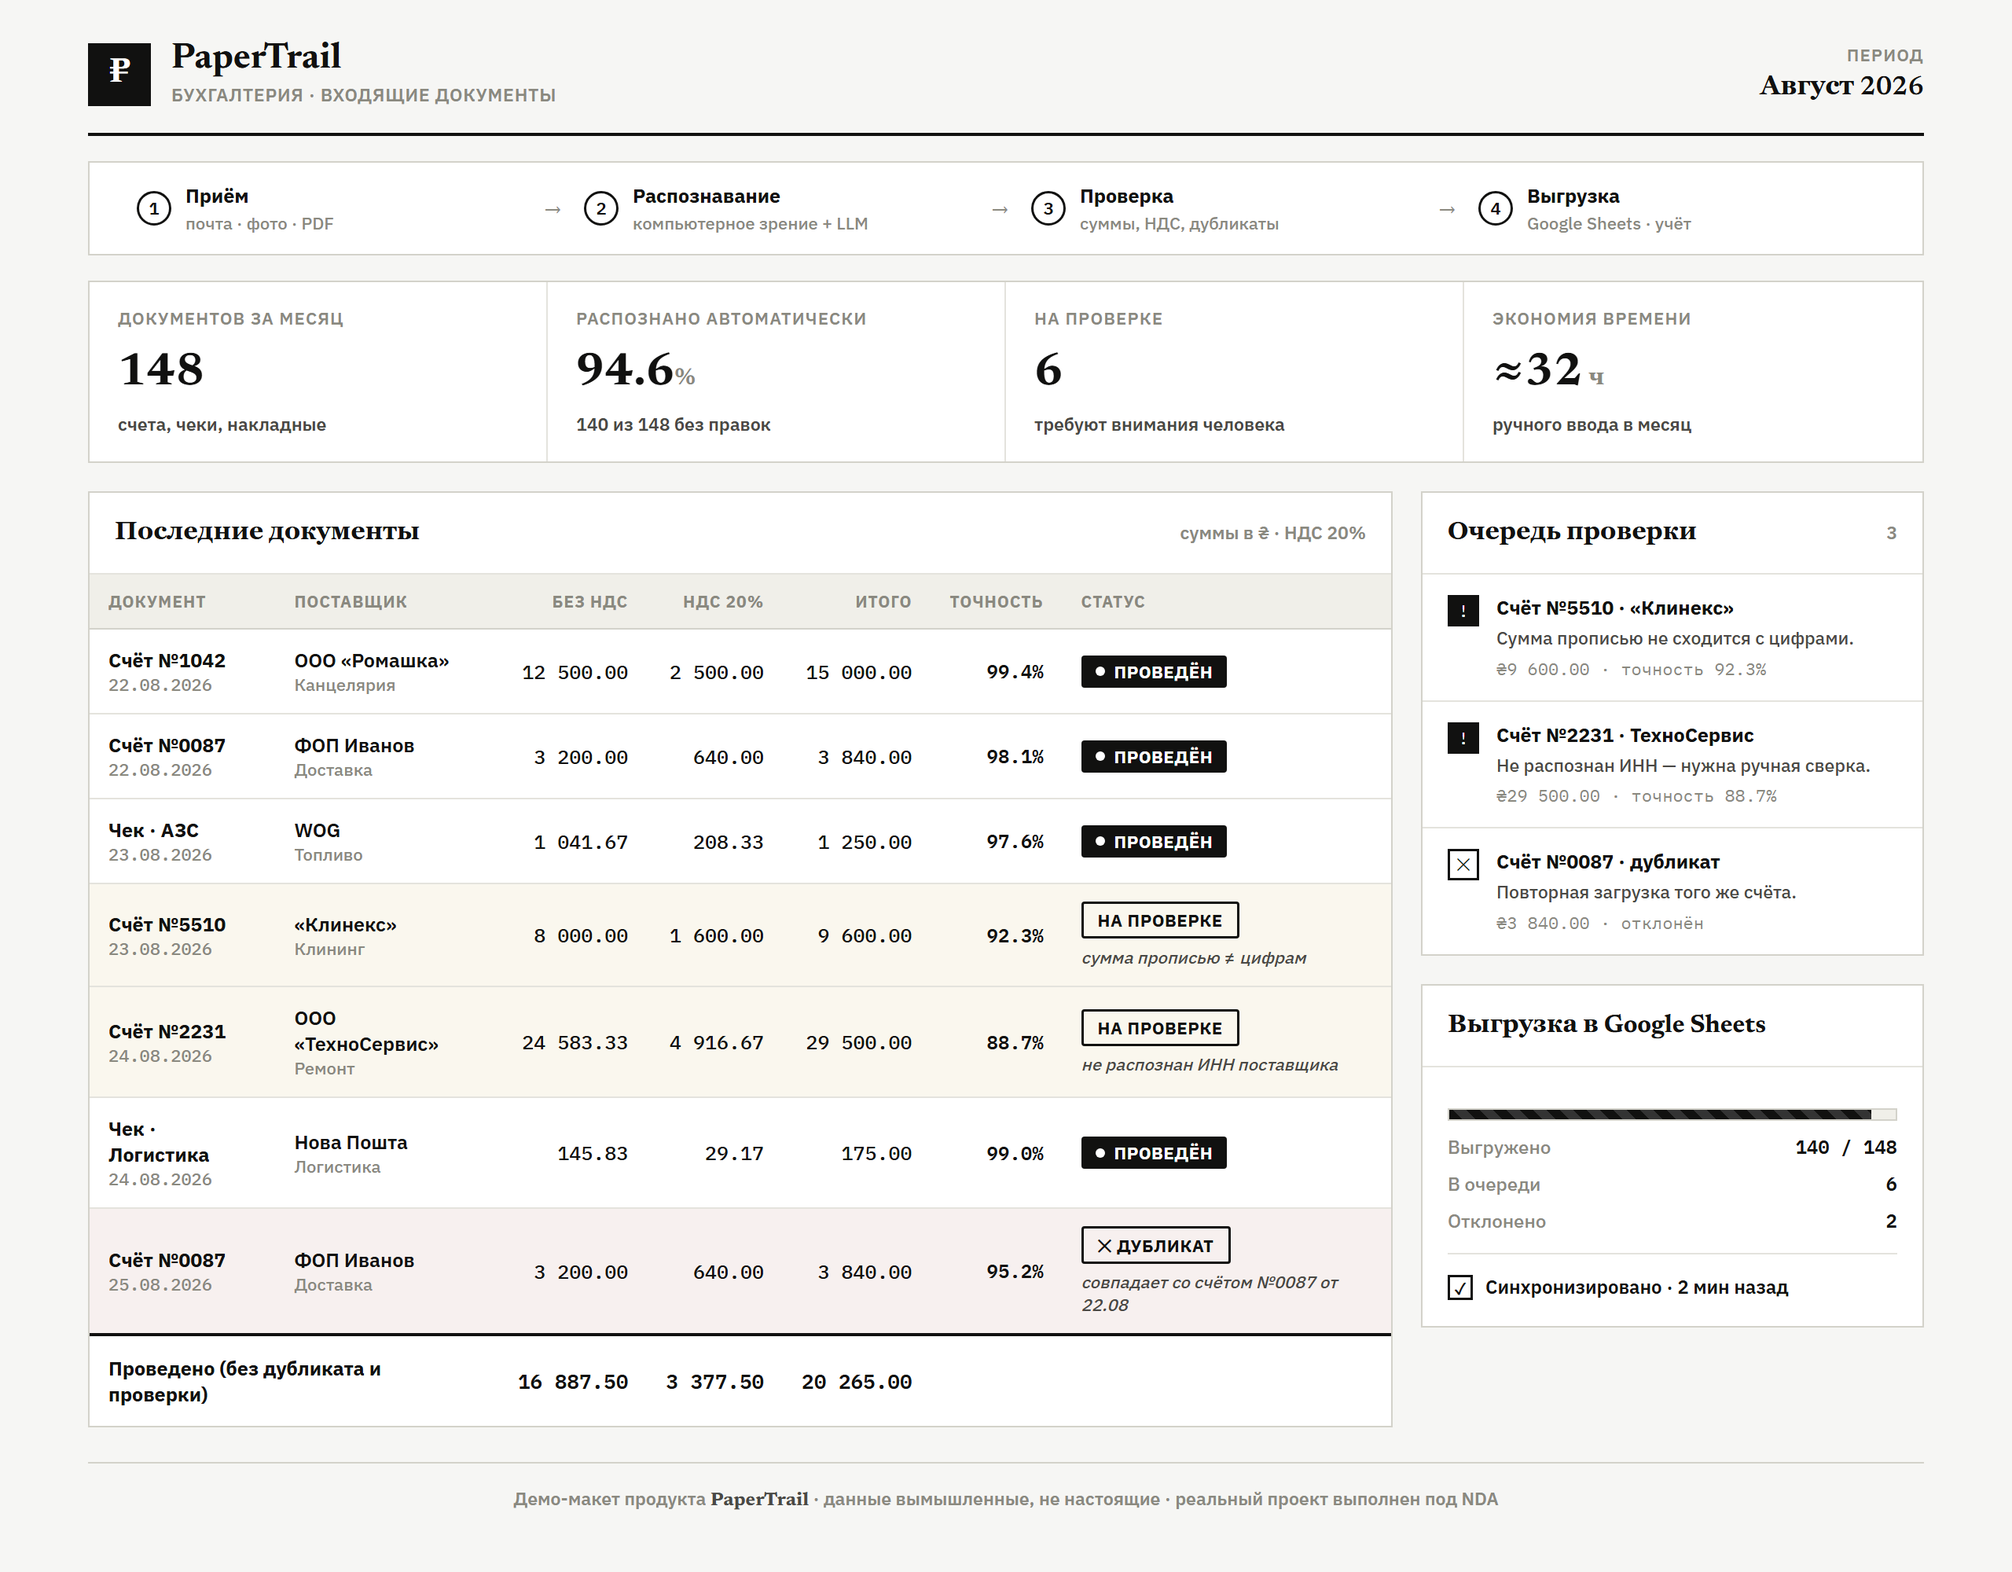
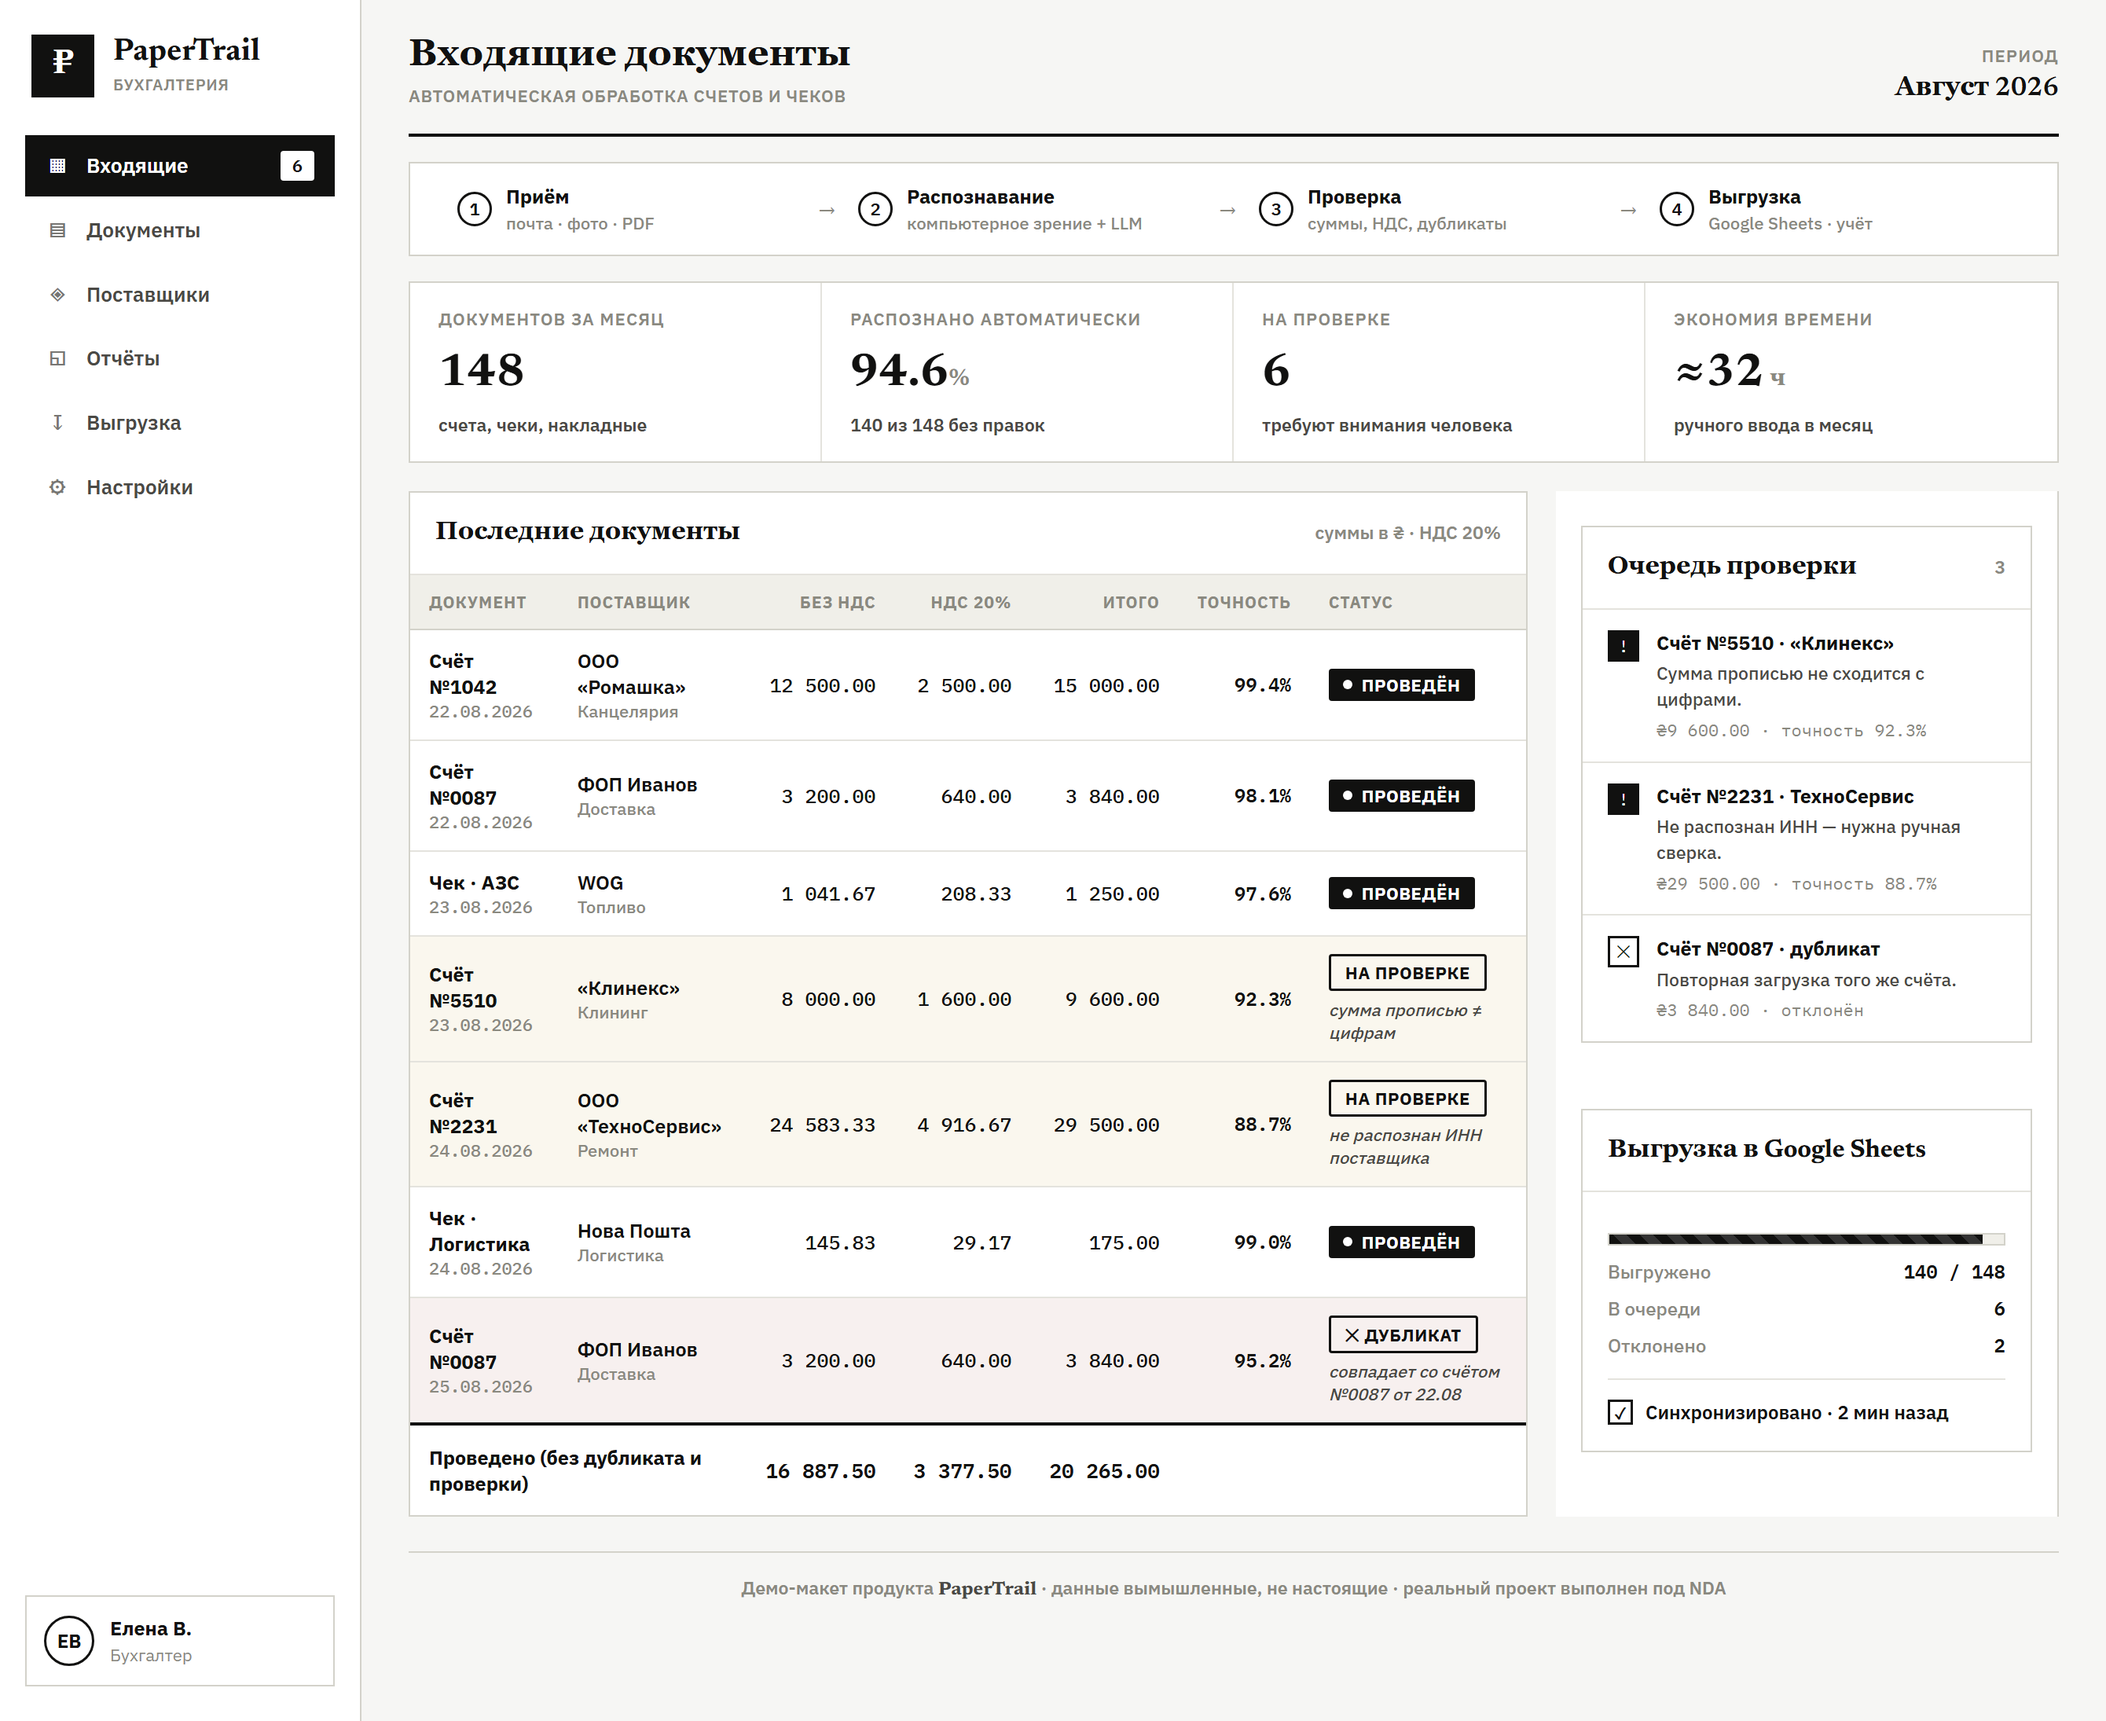
PaperTrail: add navigation sidebar for realistic app layout

diff --git a/public/demos/papertrail.html b/public/demos/papertrail.html
@@ -16,7 +16,27 @@
   html{-webkit-text-size-adjust:100%}
   body{background:var(--paper2);color:var(--ink);font-family:var(--font);line-height:1.45;min-height:100vh;-webkit-font-smoothing:antialiased}
   .num{font-family:var(--mono);font-variant-numeric:tabular-nums}
-  .wrap{max-width:1220px;margin:0 auto;padding:26px 26px 40px}
+  .app{display:grid;grid-template-columns:230px minmax(0,1fr);min-height:100vh}
+  .wrap{padding:24px 30px 40px;min-width:0}
+
+  /* Sidebar */
+  .side{border-right:1px solid var(--line2);background:var(--paper);padding:22px 16px;display:flex;flex-direction:column;gap:24px}
+  .side .brand{display:flex;align-items:center;gap:12px;padding:0 4px}
+  .side .brand h1{font-family:var(--serif);font-weight:700;font-size:20px;line-height:1}
+  .side .brand .tag{font-size:10px;color:var(--ink3);font-weight:600;letter-spacing:.4px;text-transform:uppercase;margin-top:3px}
+  .snav{display:flex;flex-direction:column;gap:2px}
+  .snav a{display:flex;align-items:center;gap:11px;padding:9px 12px;color:var(--ink2);text-decoration:none;font-size:13px;font-weight:600;border:1px solid transparent}
+  .snav a .ic{width:15px;text-align:center;opacity:.75;font-size:13px}
+  .snav a.active{background:var(--ink);color:var(--paper);border-color:var(--ink)}
+  .snav a.active .ic{opacity:1}
+  .snav a:not(.active):hover{background:var(--wash)}
+  .snav .badge{margin-left:auto;font-family:var(--mono);font-size:11px;font-weight:600;background:var(--paper);color:var(--ink);border:1.5px solid var(--ink);padding:0 6px;border-radius:2px}
+  .snav a.active .badge{background:var(--paper);color:var(--ink);border-color:var(--paper)}
+  .side .acct{margin-top:auto;display:flex;align-items:center;gap:10px;padding:11px;border:1px solid var(--line2)}
+  .side .acct .av{width:32px;height:32px;border:1.5px solid var(--ink);border-radius:50%;display:grid;place-items:center;font-size:12px;font-weight:700}
+  .side .acct b{font-size:12.5px;font-weight:700;display:block}
+  .side .acct small{font-size:11px;color:var(--ink3)}
+  @media(max-width:820px){.app{grid-template-columns:1fr}.side{display:none}}
 
   /* Masthead */
   .mast{display:flex;align-items:flex-end;justify-content:space-between;gap:20px;flex-wrap:wrap;border-bottom:2px solid var(--rule);padding-bottom:16px;margin-bottom:6px}
@@ -27,6 +47,8 @@
   .mast .meta{text-align:right}
   .mast .meta .k{font-size:11px;color:var(--ink3);text-transform:uppercase;letter-spacing:.6px;font-weight:600}
   .mast .meta .v{font-family:var(--serif);font-size:17px;font-weight:600;margin-top:1px}
+  .mast .page h1{font-family:var(--serif);font-weight:700;font-size:24px;line-height:1}
+  .mast .page .tag{font-size:11px;color:var(--ink3);font-weight:600;letter-spacing:.4px;text-transform:uppercase;margin-top:5px}
 
   /* Pipeline strip */
   .pipe{display:flex;align-items:center;gap:0;flex-wrap:wrap;border:1px solid var(--line2);background:var(--panel);margin:16px 0;padding:12px 14px}
@@ -100,14 +122,34 @@
   .foot b{color:var(--ink2);font-family:var(--serif);font-weight:700}
 </style>
 
-<div class="wrap">
-  <header class="mast">
+<div class="app">
+  <aside class="side">
     <div class="brand">
       <div class="mark">₽</div>
       <div>
         <h1>PaperTrail</h1>
-        <div class="tag">Бухгалтерия · Входящие документы</div>
+        <div class="tag">Бухгалтерия</div>
       </div>
+    </div>
+    <nav class="snav">
+      <a class="active" href="#"><span class="ic">▦</span> Входящие <span class="badge">6</span></a>
+      <a href="#"><span class="ic">▤</span> Документы</a>
+      <a href="#"><span class="ic">◈</span> Поставщики</a>
+      <a href="#"><span class="ic">◱</span> Отчёты</a>
+      <a href="#"><span class="ic">↧</span> Выгрузка</a>
+      <a href="#"><span class="ic">⚙</span> Настройки</a>
+    </nav>
+    <div class="acct">
+      <div class="av">ЕВ</div>
+      <div><b>Елена В.</b><small>Бухгалтер</small></div>
+    </div>
+  </aside>
+
+  <div class="wrap">
+  <header class="mast">
+    <div class="page">
+      <h1>Входящие документы</h1>
+      <div class="tag">Автоматическая обработка счетов и чеков</div>
     </div>
     <div class="meta">
       <div class="k">Период</div>
@@ -250,5 +292,6 @@
   </div>
 
   <div class="foot">Демо-макет продукта <b>PaperTrail</b> · данные вымышленные, не настоящие · реальный проект выполнен под NDA</div>
+  </div>
 </div>
 </body></html>
